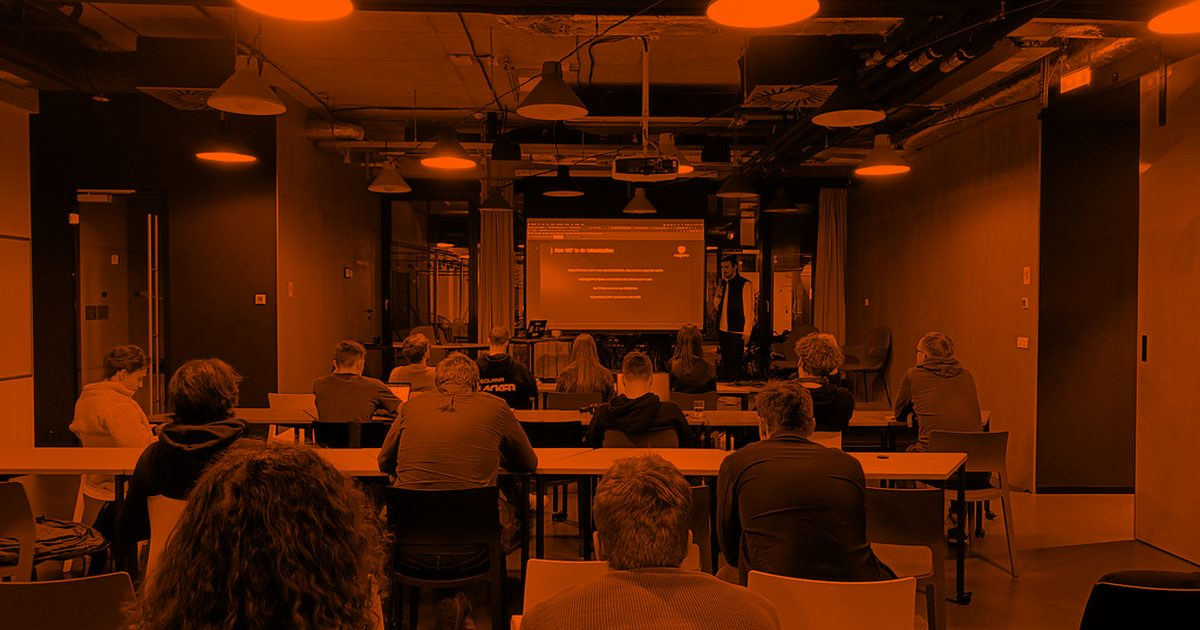
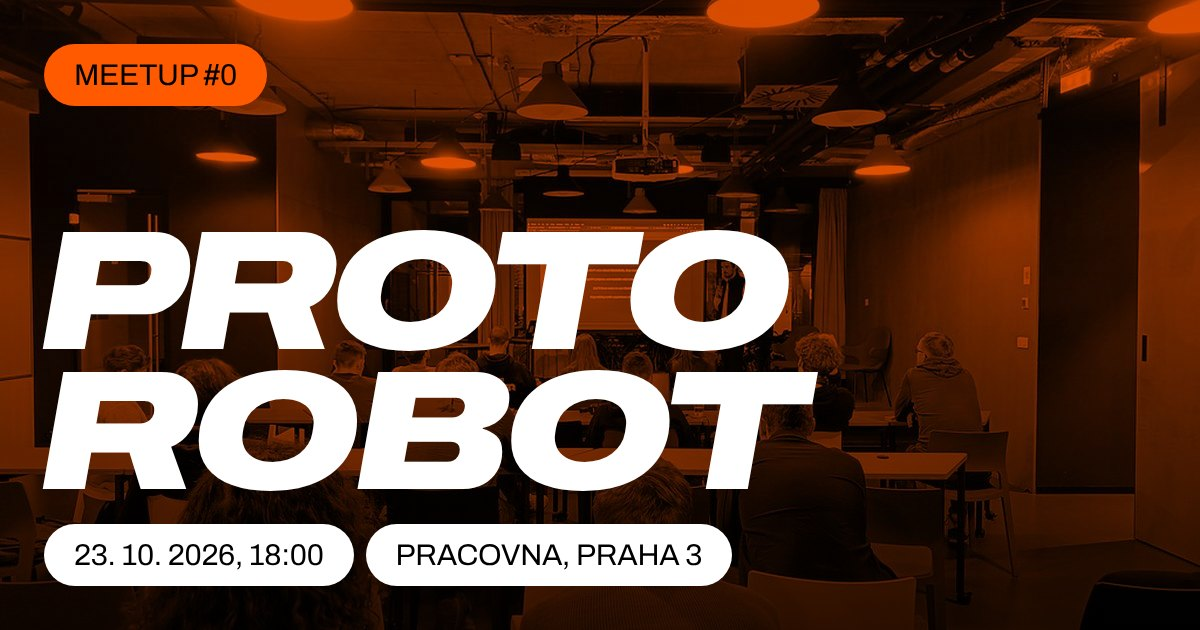
Calendar buttons, speaker LinkedIn links, social preview with date
- proto-robot-0.ics and a Google Calendar link under the registration card
- speaker names link to their LinkedIn profiles
- og.jpg now carries the title, date and venue (cache-busted with ?v=2)
- speaker photos re-cropped so heads are a similar size on every card

Claude-Session: https://claude.ai/code/session_01BZLxn37hPV3nyR5Dfttybs

diff --git a/index.html b/index.html
@@ -21,7 +21,7 @@
 <meta property="og:locale:alternate" content="en_GB">
 <meta property="og:title" content="PROTO ROBOT #0: setkání robotiků v Praze">
 <meta property="og:description" content="Přednášky a živá dema. Pátek 23. října 2026, 18:00. Vstup zdarma, registrace na Luma.">
-<meta property="og:image" content="https://protorobot.cz/img/og.jpg">
+<meta property="og:image" content="https://protorobot.cz/img/og.jpg?v=2">
 <meta property="og:image:width" content="1200">
 <meta property="og:image:height" content="630">
 <meta property="og:image:alt" content="PROTO ROBOT #0, Praha, 23. října 2026">
@@ -257,6 +257,13 @@ a.card:hover .photo,a.card:focus-visible .photo{transform:translateY(-8px)}
 .spk__talk{margin-top:var(--s2);padding-top:var(--s1);border-top:1px solid var(--black);font-size:19px;line-height:1.2;font-weight:600;letter-spacing:-.01em}
 .spk__note{margin-top:.5em;font-size:16px;line-height:1.35}
 
+.spk__name a{text-decoration:underline;text-decoration-thickness:1px;text-underline-offset:.12em;text-decoration-color:transparent;transition:text-decoration-color .2s}
+.spk__name a:hover,.spk__name a:focus-visible{text-decoration-color:currentColor}
+.spk__name a::after{content:"\2197";font-size:.5em;vertical-align:.7em;margin-left:.15em;opacity:.45}
+.cal{display:flex;flex-wrap:wrap;justify-content:center;gap:var(--s1);margin-top:var(--s2)}
+.cal .pill{background:var(--black);backdrop-filter:none;height:44px;padding:0 20px;font-size:15px}
+.cal .pill:hover{background:var(--orange);color:var(--black)}
+
 /* ---------- registration ---------- */
 .tix h2{text-align:center}
 .tiers{display:grid;grid-template-columns:minmax(0,460px);gap:var(--g);justify-content:center;text-align:center}
@@ -392,28 +399,28 @@ a.card:hover .photo,a.card:focus-visible .photo{transform:translateY(-8px)}
   <div class="spk-grid">
     <article class="spk">
       <div class="photo"><img loading="lazy" decoding="async" src="/img/sp-konecny.jpg" alt="Tomáš Konečný"><span class="spk__no">01</span></div>
-      <h3 class="spk__name">Tomáš Konečný</h3>
+      <h3 class="spk__name"><a href="https://www.linkedin.com/in/tom%C3%A1%C5%A1-kone%C4%8Dn%C3%BD-360a63164/" target="_blank" rel="noopener" aria-label="Tomáš Konečný, Profil na LinkedIn">Tomáš Konečný</a></h3>
       <p class="spk__org">Robotservice</p>
       <p class="spk__talk">Běžné problémy servisních robotů</p>
       <p class="spk__note">Pět minut z praxe: co se na servisních robotech v provozu opravdu kazí.</p>
     </article>
     <article class="spk">
       <div class="photo"><img loading="lazy" decoding="async" src="/img/sp-vitek.jpg" alt="Lukáš Vítek"><span class="spk__no">02</span><span class="spk__demo">Živé demo</span></div>
-      <h3 class="spk__name">Lukáš Vítek</h3>
+      <h3 class="spk__name"><a href="https://www.linkedin.com/in/vitek-lukas/" target="_blank" rel="noopener" aria-label="Lukáš Vítek, Profil na LinkedIn">Lukáš Vítek</a></h3>
       <p class="spk__org">Integra Robotics</p>
       <p class="spk__talk">Humanoid a physical AI</p>
       <p class="spk__note">Kde se humanoidi potkávají s physical AI. Integra přiveze humanoida na demo.</p>
     </article>
     <article class="spk">
       <div class="photo"><img loading="lazy" decoding="async" src="/img/sp-danieau.jpg" alt="Fabien Danieau"><span class="spk__no">03</span><span class="spk__demo">Živé demo</span></div>
-      <h3 class="spk__name">Fabien Danieau</h3>
+      <h3 class="spk__name"><a href="https://www.linkedin.com/in/fabiendanieau/" target="_blank" rel="noopener" aria-label="Fabien Danieau, Profil na LinkedIn">Fabien Danieau</a></h3>
       <p class="spk__org">Pollen Robotics</p>
       <p class="spk__talk">Reachy Mini: open-source stolní robot</p>
       <p class="spk__note">Expresivní robot na váš stůl. Reachy Mini bude na demo stole u pódia.</p>
     </article>
     <article class="spk">
       <div class="photo"><img loading="lazy" decoding="async" src="/img/sp-bruna.jpg" alt="Ondřej Bruna"><span class="spk__no">04</span></div>
-      <h3 class="spk__name">Ondřej Bruna</h3>
+      <h3 class="spk__name"><a href="https://www.linkedin.com/in/ond%C5%99ej-bruna-1500a043/" target="_blank" rel="noopener" aria-label="Ondřej Bruna, Profil na LinkedIn">Ondřej Bruna</a></h3>
       <p class="spk__org">Spoluautor KORD</p>
       <p class="spk__talk">KORD: co jsme se naučili</p>
       <p class="spk__note">Deset let stavby 7-DOF kobota od nuly a real-time rozhraní pro jeho ruku.</p>
@@ -428,6 +435,7 @@ a.card:hover .photo,a.card:focus-visible .photo{transform:translateY(-8px)}
       <a class="tier__art tier__art--hot" href="https://luma.com/2pxjv05i" target="_blank" rel="noopener"><span class="tier__pattern" aria-hidden="true"><span>PROTO ROBOT PROTO ROBOT PROTO ROBOT PROTO ROBOT PROTO ROBOT PROTO ROBOT PROTO ROBOT PROTO ROBOT</span><span>PROTO ROBOT PROTO ROBOT PROTO ROBOT PROTO ROBOT PROTO ROBOT PROTO ROBOT PROTO ROBOT PROTO ROBOT</span><span>PROTO ROBOT PROTO ROBOT PROTO ROBOT PROTO ROBOT PROTO ROBOT PROTO ROBOT PROTO ROBOT PROTO ROBOT</span><span>PROTO ROBOT PROTO ROBOT PROTO ROBOT PROTO ROBOT PROTO ROBOT PROTO ROBOT PROTO ROBOT PROTO ROBOT</span><span>PROTO ROBOT PROTO ROBOT PROTO ROBOT PROTO ROBOT PROTO ROBOT PROTO ROBOT PROTO ROBOT PROTO ROBOT</span><span>PROTO ROBOT PROTO ROBOT PROTO ROBOT PROTO ROBOT PROTO ROBOT PROTO ROBOT PROTO ROBOT PROTO ROBOT</span><span>PROTO ROBOT PROTO ROBOT PROTO ROBOT PROTO ROBOT PROTO ROBOT PROTO ROBOT PROTO ROBOT PROTO ROBOT</span><span>PROTO ROBOT PROTO ROBOT PROTO ROBOT PROTO ROBOT PROTO ROBOT PROTO ROBOT PROTO ROBOT PROTO ROBOT</span><span>PROTO ROBOT PROTO ROBOT PROTO ROBOT PROTO ROBOT PROTO ROBOT PROTO ROBOT PROTO ROBOT PROTO ROBOT</span><span>PROTO ROBOT PROTO ROBOT PROTO ROBOT PROTO ROBOT PROTO ROBOT PROTO ROBOT PROTO ROBOT PROTO ROBOT</span><span>PROTO ROBOT PROTO ROBOT PROTO ROBOT PROTO ROBOT PROTO ROBOT PROTO ROBOT PROTO ROBOT PROTO ROBOT</span><span>PROTO ROBOT PROTO ROBOT PROTO ROBOT PROTO ROBOT PROTO ROBOT PROTO ROBOT PROTO ROBOT PROTO ROBOT</span><span>PROTO ROBOT PROTO ROBOT PROTO ROBOT PROTO ROBOT PROTO ROBOT PROTO ROBOT PROTO ROBOT PROTO ROBOT</span><span>PROTO ROBOT PROTO ROBOT PROTO ROBOT PROTO ROBOT PROTO ROBOT PROTO ROBOT PROTO ROBOT PROTO ROBOT</span></span><span class="pill pill--flip"><span class="f-a">Registrace na Luma</span><span class="f-b" aria-hidden="true">Otevře Luma</span></span></a>
       <p class="tier__lead">Pro hosty</p>
       <ul><li>Zdarma, registrace na Lumě</li><li>Pracovna, Vlkova 36, Praha 3</li><li>Počet míst je omezený</li></ul>
+      <div class="cal"><a class="pill" href="/proto-robot-0.ics" download>Přidat do kalendáře</a><a class="pill" href="https://calendar.google.com/calendar/render?action=TEMPLATE&amp;text=PROTO+ROBOT+%230&amp;dates=20261023T160000Z%2F20261023T200000Z&amp;details=Setk%C3%A1n%C3%AD+robotik%C5%AF.+Otev%C3%ADr%C3%A1me+v+18%3A00%2C+p%C5%99edn%C3%A1%C5%A1ky+od+19%3A00+zhruba+do+21%3A00%2C+pak+demo+stoly+a+pov%C3%ADd%C3%A1n%C3%AD+do+22%3A00.+https%3A%2F%2Fprotorobot.cz%2F&amp;location=Pracovna%2C+Vlkova+36%2C+Praha+3" target="_blank" rel="noopener">Google Kalendář</a></div>
     </div>
   </div>
 </section>

diff --git a/en/index.html b/en/index.html
@@ -21,7 +21,7 @@
 <meta property="og:locale:alternate" content="cs_CZ">
 <meta property="og:title" content="PROTO ROBOT #0: robotics meetup in Prague">
 <meta property="og:description" content="Talks and live demos. Friday 23 October 2026, 18:00. Free entry, register on Luma.">
-<meta property="og:image" content="https://protorobot.cz/img/og.jpg">
+<meta property="og:image" content="https://protorobot.cz/img/og.jpg?v=2">
 <meta property="og:image:width" content="1200">
 <meta property="og:image:height" content="630">
 <meta property="og:image:alt" content="PROTO ROBOT #0, Prague, 23 October 2026">
@@ -257,6 +257,13 @@ a.card:hover .photo,a.card:focus-visible .photo{transform:translateY(-8px)}
 .spk__talk{margin-top:var(--s2);padding-top:var(--s1);border-top:1px solid var(--black);font-size:19px;line-height:1.2;font-weight:600;letter-spacing:-.01em}
 .spk__note{margin-top:.5em;font-size:16px;line-height:1.35}
 
+.spk__name a{text-decoration:underline;text-decoration-thickness:1px;text-underline-offset:.12em;text-decoration-color:transparent;transition:text-decoration-color .2s}
+.spk__name a:hover,.spk__name a:focus-visible{text-decoration-color:currentColor}
+.spk__name a::after{content:"\2197";font-size:.5em;vertical-align:.7em;margin-left:.15em;opacity:.45}
+.cal{display:flex;flex-wrap:wrap;justify-content:center;gap:var(--s1);margin-top:var(--s2)}
+.cal .pill{background:var(--black);backdrop-filter:none;height:44px;padding:0 20px;font-size:15px}
+.cal .pill:hover{background:var(--orange);color:var(--black)}
+
 /* ---------- registration ---------- */
 .tix h2{text-align:center}
 .tiers{display:grid;grid-template-columns:minmax(0,460px);gap:var(--g);justify-content:center;text-align:center}
@@ -392,28 +399,28 @@ a.card:hover .photo,a.card:focus-visible .photo{transform:translateY(-8px)}
   <div class="spk-grid">
     <article class="spk">
       <div class="photo"><img loading="lazy" decoding="async" src="/img/sp-konecny.jpg" alt="Tomáš Konečný"><span class="spk__no">01</span></div>
-      <h3 class="spk__name">Tomáš Konečný</h3>
+      <h3 class="spk__name"><a href="https://www.linkedin.com/in/tom%C3%A1%C5%A1-kone%C4%8Dn%C3%BD-360a63164/" target="_blank" rel="noopener" aria-label="Tomáš Konečný, LinkedIn profile">Tomáš Konečný</a></h3>
       <p class="spk__org">Robotservice</p>
       <p class="spk__talk">Common facility robot issues</p>
       <p class="spk__note">Five minutes from the field: what really breaks on service robots in operation.</p>
     </article>
     <article class="spk">
       <div class="photo"><img loading="lazy" decoding="async" src="/img/sp-vitek.jpg" alt="Lukáš Vítek"><span class="spk__no">02</span><span class="spk__demo">Live demo</span></div>
-      <h3 class="spk__name">Lukáš Vítek</h3>
+      <h3 class="spk__name"><a href="https://www.linkedin.com/in/vitek-lukas/" target="_blank" rel="noopener" aria-label="Lukáš Vítek, LinkedIn profile">Lukáš Vítek</a></h3>
       <p class="spk__org">Integra Robotics</p>
       <p class="spk__talk">Humanoids and physical AI</p>
       <p class="spk__note">Where humanoids meet physical AI. Integra brings their humanoid for a live demo.</p>
     </article>
     <article class="spk">
       <div class="photo"><img loading="lazy" decoding="async" src="/img/sp-danieau.jpg" alt="Fabien Danieau"><span class="spk__no">03</span><span class="spk__demo">Live demo</span></div>
-      <h3 class="spk__name">Fabien Danieau</h3>
+      <h3 class="spk__name"><a href="https://www.linkedin.com/in/fabiendanieau/" target="_blank" rel="noopener" aria-label="Fabien Danieau, LinkedIn profile">Fabien Danieau</a></h3>
       <p class="spk__org">Pollen Robotics</p>
       <p class="spk__talk">Reachy Mini: open-source desk robot</p>
       <p class="spk__note">An expressive robot for your desk. Reachy Mini is on the demo table by the stage.</p>
     </article>
     <article class="spk">
       <div class="photo"><img loading="lazy" decoding="async" src="/img/sp-bruna.jpg" alt="Ondřej Bruna"><span class="spk__no">04</span></div>
-      <h3 class="spk__name">Ondřej Bruna</h3>
+      <h3 class="spk__name"><a href="https://www.linkedin.com/in/ond%C5%99ej-bruna-1500a043/" target="_blank" rel="noopener" aria-label="Ondřej Bruna, LinkedIn profile">Ondřej Bruna</a></h3>
       <p class="spk__org">Co-author of KORD</p>
       <p class="spk__talk">KORD: lessons learned</p>
       <p class="spk__note">Ten years building a 7-DOF cobot from scratch and its real-time arm interface.</p>
@@ -428,6 +435,7 @@ a.card:hover .photo,a.card:focus-visible .photo{transform:translateY(-8px)}
       <a class="tier__art tier__art--hot" href="https://luma.com/2pxjv05i" target="_blank" rel="noopener"><span class="tier__pattern" aria-hidden="true"><span>PROTO ROBOT PROTO ROBOT PROTO ROBOT PROTO ROBOT PROTO ROBOT PROTO ROBOT PROTO ROBOT PROTO ROBOT</span><span>PROTO ROBOT PROTO ROBOT PROTO ROBOT PROTO ROBOT PROTO ROBOT PROTO ROBOT PROTO ROBOT PROTO ROBOT</span><span>PROTO ROBOT PROTO ROBOT PROTO ROBOT PROTO ROBOT PROTO ROBOT PROTO ROBOT PROTO ROBOT PROTO ROBOT</span><span>PROTO ROBOT PROTO ROBOT PROTO ROBOT PROTO ROBOT PROTO ROBOT PROTO ROBOT PROTO ROBOT PROTO ROBOT</span><span>PROTO ROBOT PROTO ROBOT PROTO ROBOT PROTO ROBOT PROTO ROBOT PROTO ROBOT PROTO ROBOT PROTO ROBOT</span><span>PROTO ROBOT PROTO ROBOT PROTO ROBOT PROTO ROBOT PROTO ROBOT PROTO ROBOT PROTO ROBOT PROTO ROBOT</span><span>PROTO ROBOT PROTO ROBOT PROTO ROBOT PROTO ROBOT PROTO ROBOT PROTO ROBOT PROTO ROBOT PROTO ROBOT</span><span>PROTO ROBOT PROTO ROBOT PROTO ROBOT PROTO ROBOT PROTO ROBOT PROTO ROBOT PROTO ROBOT PROTO ROBOT</span><span>PROTO ROBOT PROTO ROBOT PROTO ROBOT PROTO ROBOT PROTO ROBOT PROTO ROBOT PROTO ROBOT PROTO ROBOT</span><span>PROTO ROBOT PROTO ROBOT PROTO ROBOT PROTO ROBOT PROTO ROBOT PROTO ROBOT PROTO ROBOT PROTO ROBOT</span><span>PROTO ROBOT PROTO ROBOT PROTO ROBOT PROTO ROBOT PROTO ROBOT PROTO ROBOT PROTO ROBOT PROTO ROBOT</span><span>PROTO ROBOT PROTO ROBOT PROTO ROBOT PROTO ROBOT PROTO ROBOT PROTO ROBOT PROTO ROBOT PROTO ROBOT</span><span>PROTO ROBOT PROTO ROBOT PROTO ROBOT PROTO ROBOT PROTO ROBOT PROTO ROBOT PROTO ROBOT PROTO ROBOT</span><span>PROTO ROBOT PROTO ROBOT PROTO ROBOT PROTO ROBOT PROTO ROBOT PROTO ROBOT PROTO ROBOT PROTO ROBOT</span></span><span class="pill pill--flip"><span class="f-a">Register on Luma</span><span class="f-b" aria-hidden="true">Opens Luma</span></span></a>
       <p class="tier__lead">For guests</p>
       <ul><li>Free, registration on Luma</li><li>Pracovna, Vlkova 36, Prague 3</li><li>Places are limited</li></ul>
+      <div class="cal"><a class="pill" href="/proto-robot-0.ics" download>Add to calendar</a><a class="pill" href="https://calendar.google.com/calendar/render?action=TEMPLATE&amp;text=PROTO+ROBOT+%230&amp;dates=20261023T160000Z%2F20261023T200000Z&amp;details=Robotics+meetup.+Doors+18%3A00%2C+talks+19%3A00+to+about+21%3A00%2C+then+demo+tables+and+chatter+until+22%3A00.+https%3A%2F%2Fprotorobot.cz%2Fen%2F&amp;location=Pracovna%2C+Vlkova+36%2C+Praha+3" target="_blank" rel="noopener">Google Calendar</a></div>
     </div>
   </div>
 </section>
